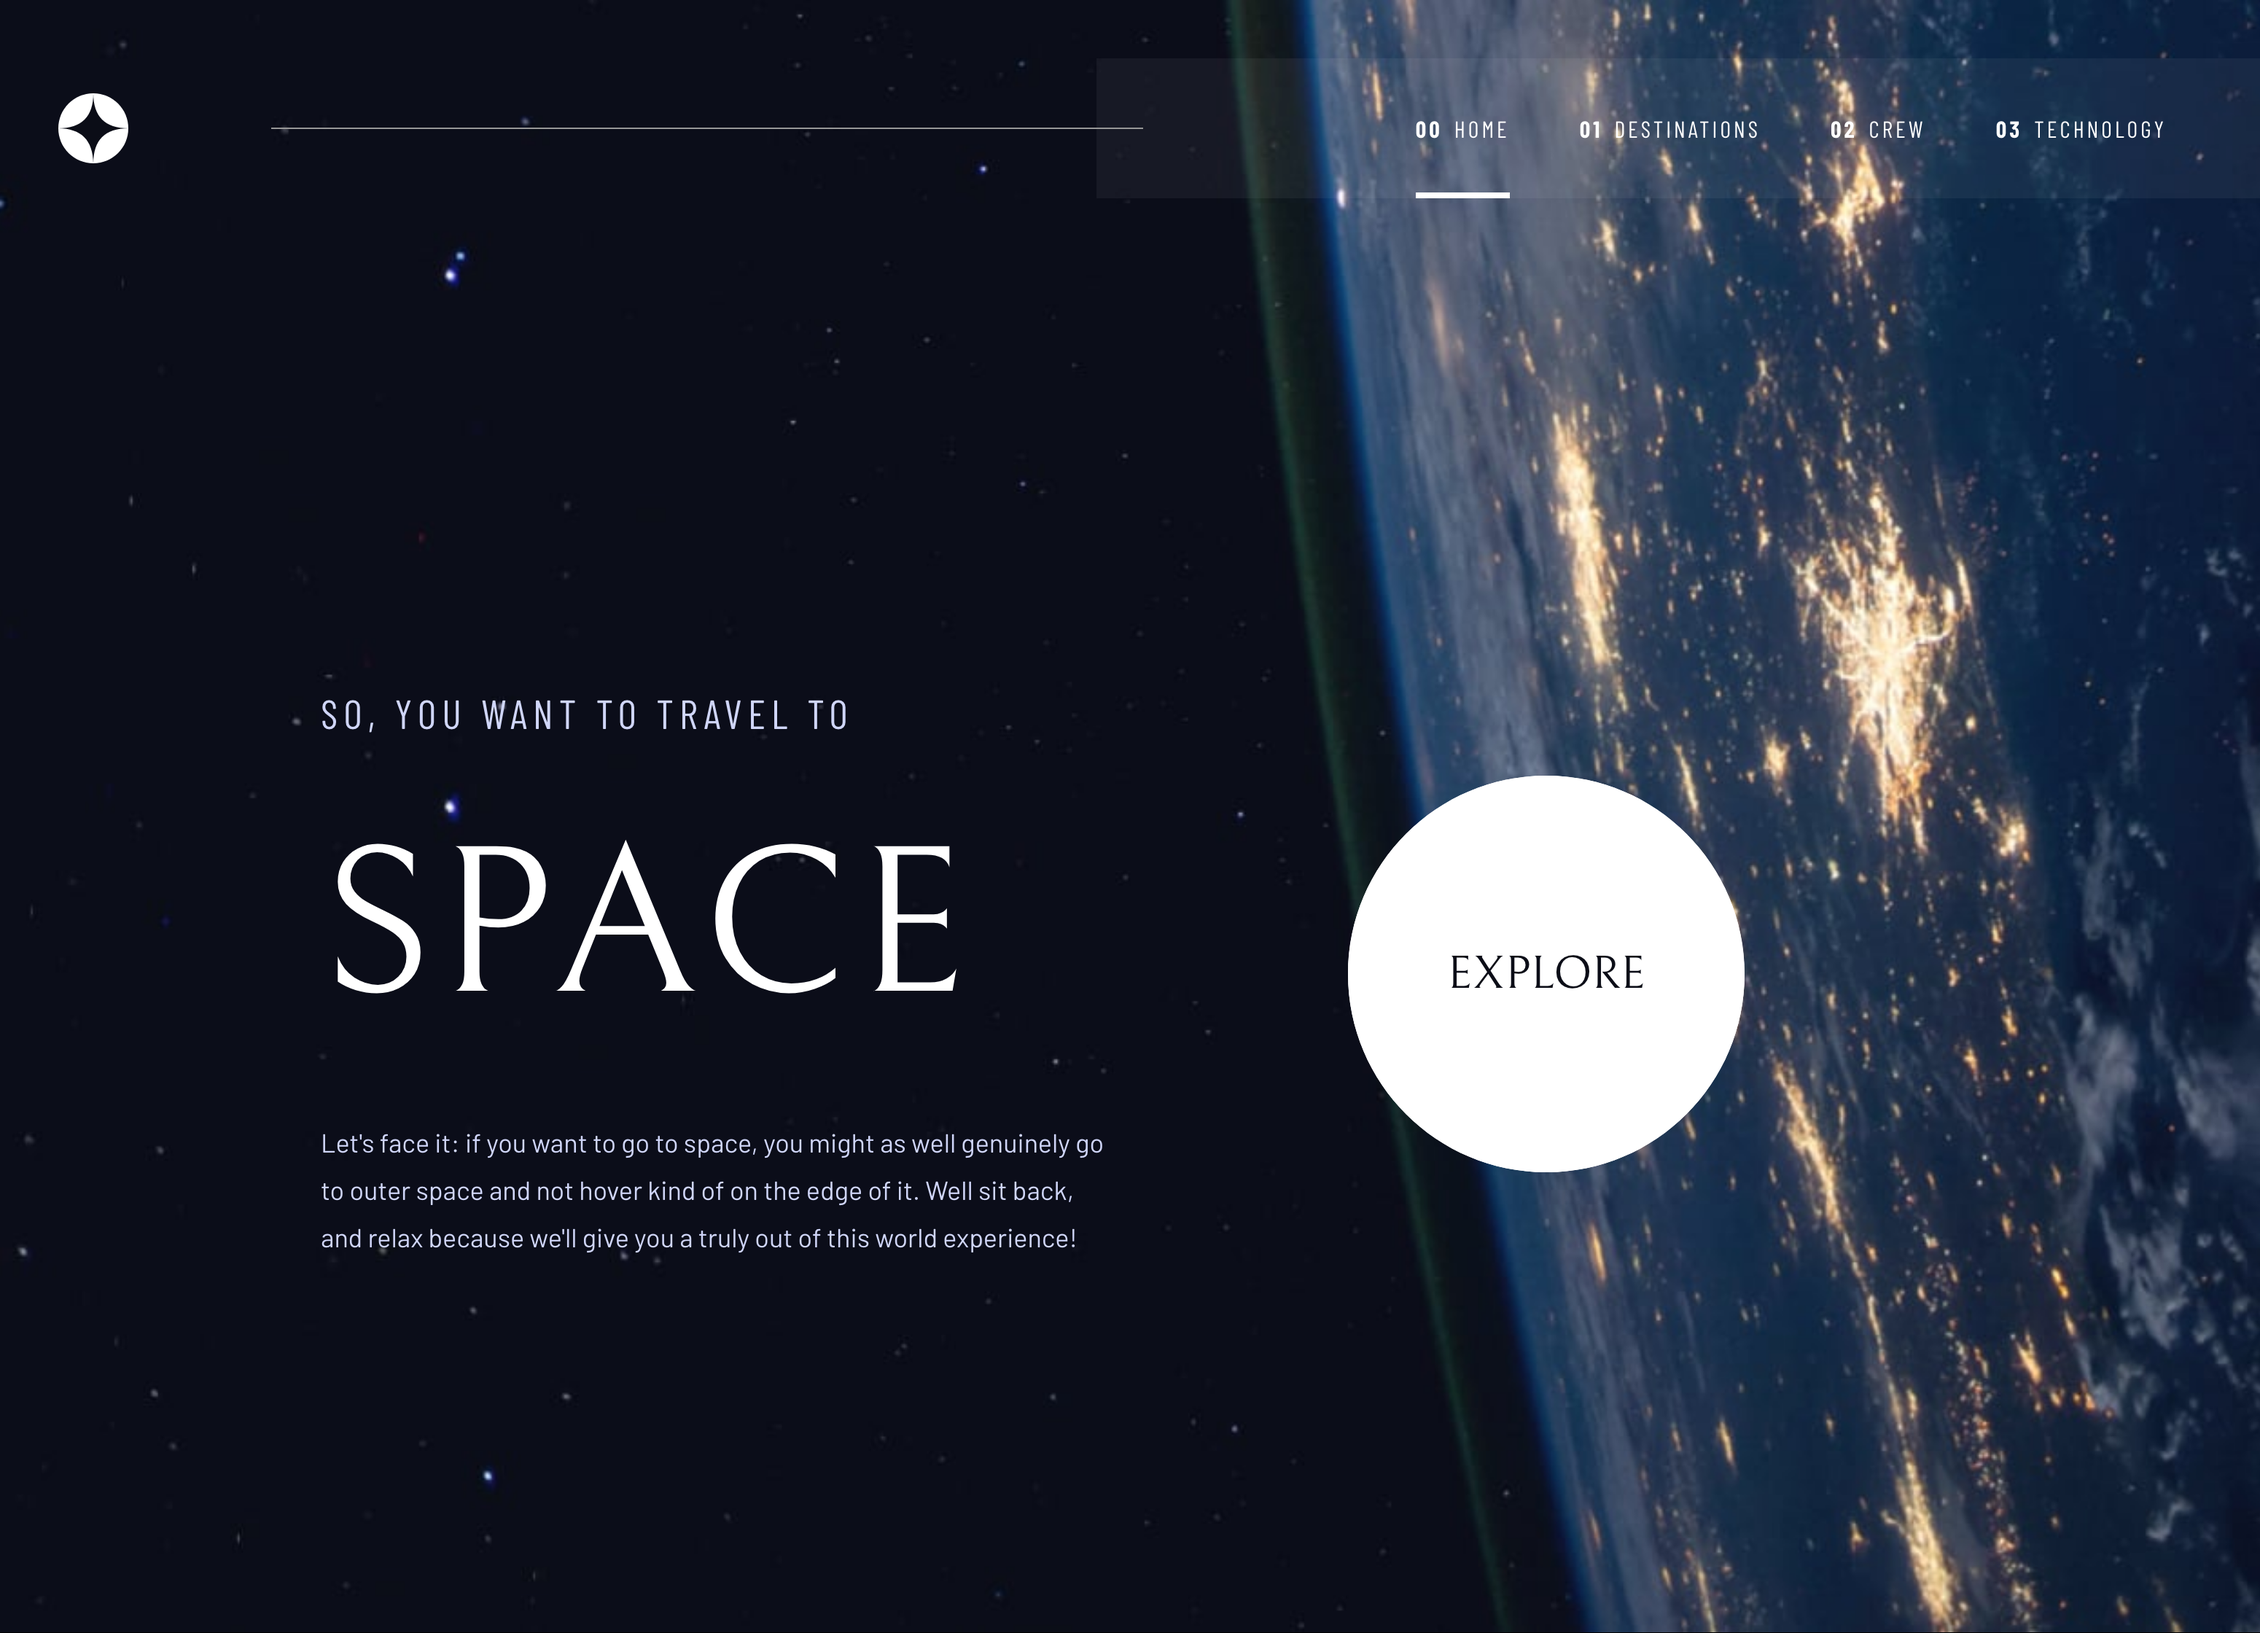
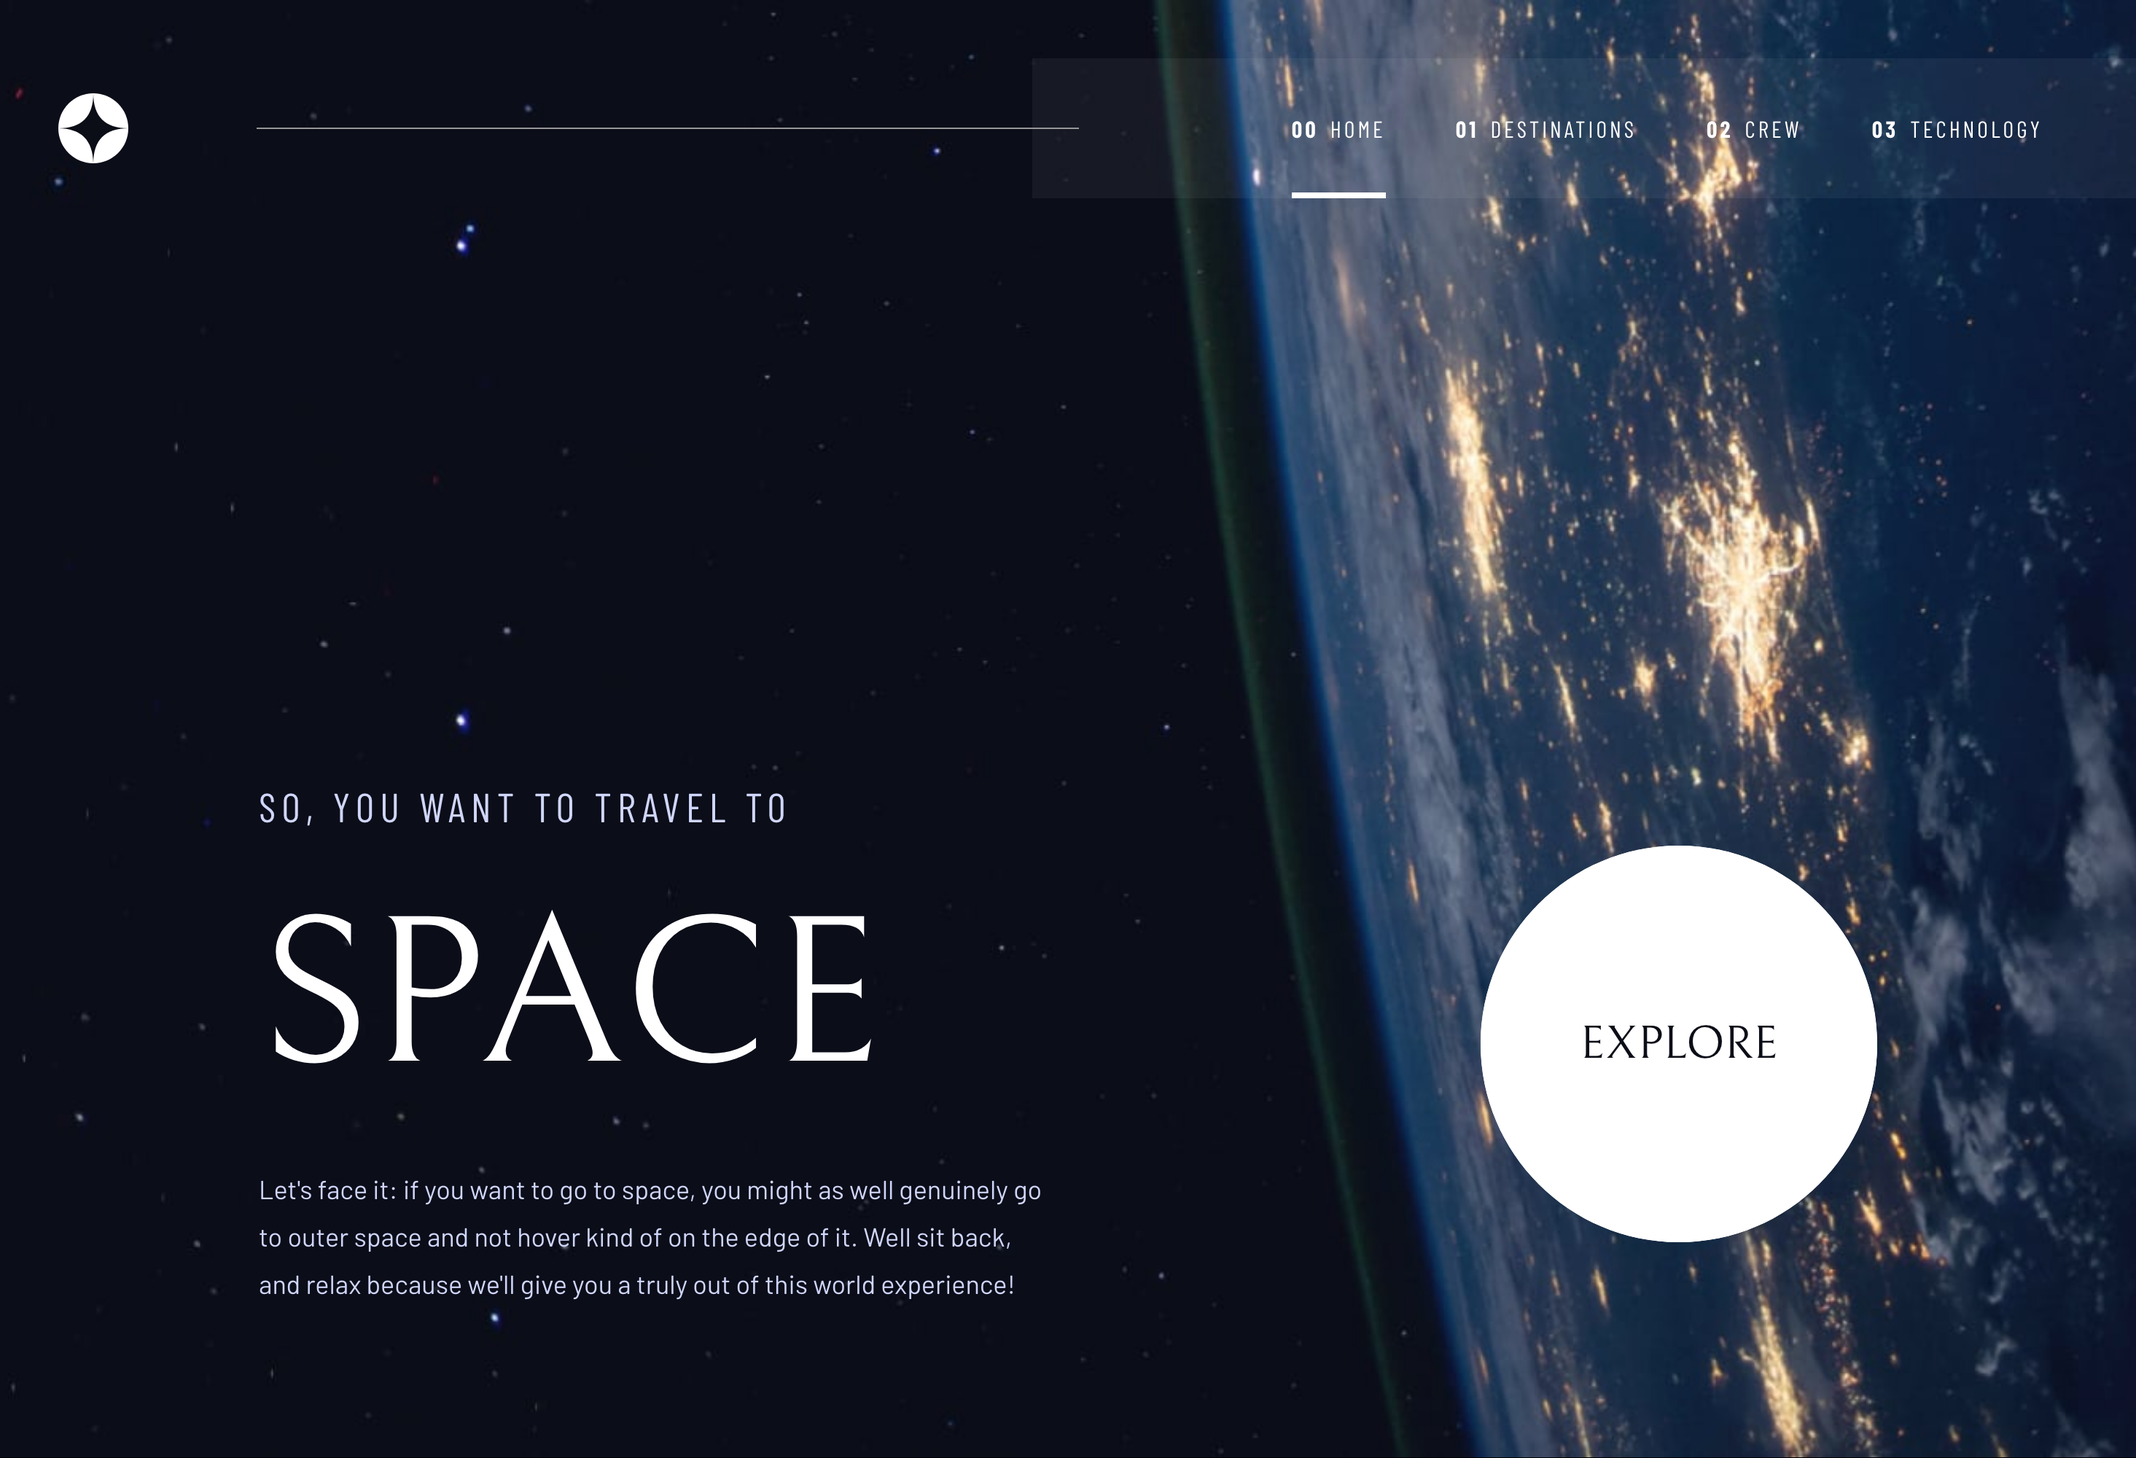
readme update, src folder clean up

diff --git a/src/index.css b/src/index.css
@@ -229,6 +229,7 @@ main {
   color: white;
   font-family: var(--ffserif);
   font-size: 5.5rem;
+  letter-spacing:0;
   text-transform: uppercase;
 }
 .text-preset-9 {
@@ -784,7 +785,7 @@ img.img-technology {
     font-size: 9rem;
   }
   .page-content-home .content-left p, .page-content-home .content-left h1 span {
-    margin-top:3rem;
+    margin-top:2rem;
     display:block;
   }
   .page-content-home .content-left {
@@ -860,10 +861,13 @@ img.img-technology {
     max-width:100%;
   }
   .page-content-home {
-    padding-top:30vh;
+    padding-top:40vh;
   }
   .page-content-home .content-left {
     max-width:100%;
+  }
+  .page-content-home .big-round-btn {
+    justify-self: end;
   }
   .nav-destinations {
     justify-content: flex-start;

diff --git a/README.md b/README.md
@@ -30,16 +30,17 @@ Users should be able to:
 
 ### Links
 
-- Solution URL: [Add solution URL here](https://your-solution-url.com)
-- Live Site URL: [Add live site URL here](https://your-live-site-url.com)
+- Solution URL: [GitHub](https://github.com/ortalyarts/frontendmentor-space-tourism-multipage-website)
+- Live Site URL: [Site Preview](https://frontendmentor-space-tourism-multipage-website.vercel.app/)
 
 ## My process
 
 ### Built with
 
 - Semantic HTML5 markup, native CSS3, Javascript ES6
-- CSS custom properties
+- CSS Animation
 - Mobile-first workflow
+- PerfectPixel
 - [React](https://reactjs.org/) - JS library
 - [react-router-dom](https://reactrouter.com/) - React router
 - [Framer motion](https://motion.dev/) - Animation library
